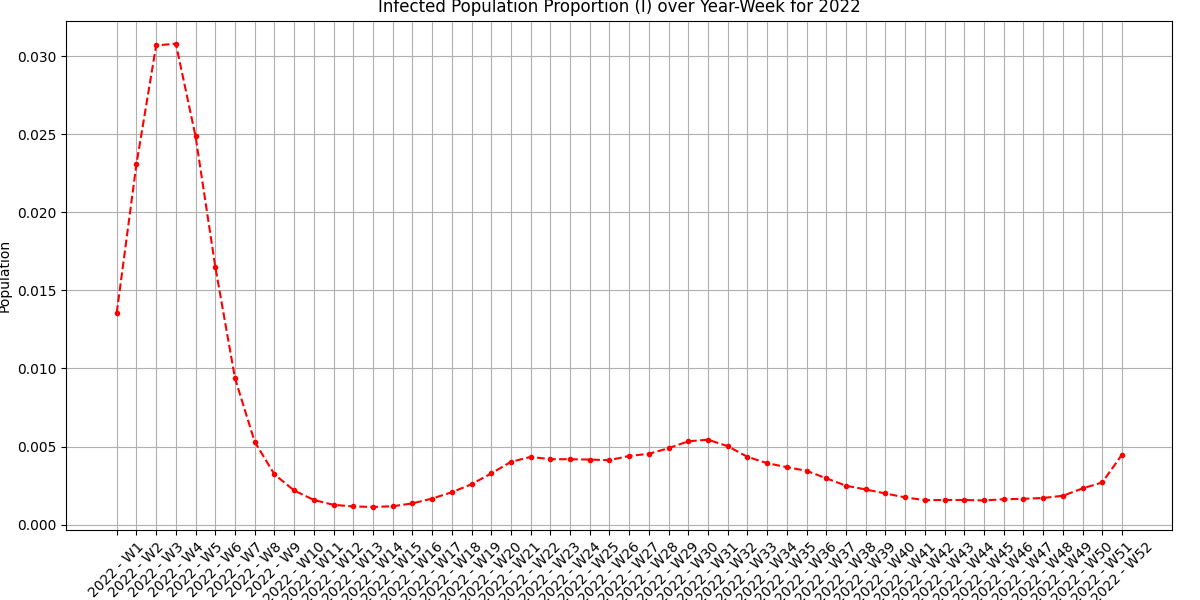
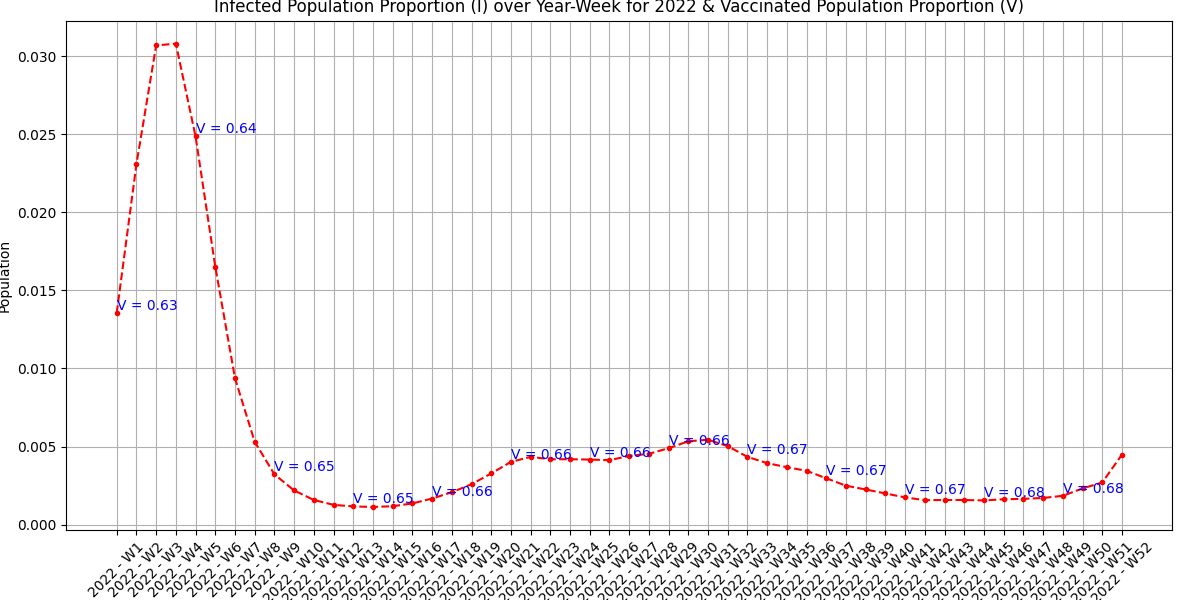
Vaccination plot in SIS

diff --git a/code/si_model.py b/code/si_model.py
@@ -39,7 +39,7 @@ def SI_plot(col, SI_data, save_path):
     unique_years = SI_data['year'].unique()
     for year in unique_years:
         data_year = SI_data[SI_data['year'] == year]
-        weekly_avg_data = data_year.groupby(['year', 'week']).agg({col: 'mean'}).reset_index()
+        weekly_avg_data = data_year.groupby(['year', 'week']).agg({col: 'mean', 'V':'mean', 'mobility_index':'mean'}).reset_index()
         weekly_avg_data['year_week'] = weekly_avg_data['year'].astype(str) + ' - W' + weekly_avg_data['week'].astype(str)
         plt.figure(figsize=(12, 6))
         plt.xlabel('Year-Week')
@@ -53,15 +53,21 @@ def SI_plot(col, SI_data, save_path):
             path = save_path + f'S_plot_{year}.png'
         elif col == 'I':
             plt.plot(weekly_avg_data['year_week'], weekly_avg_data[col], label='Susceptible (I)', color='r', marker='.', linestyle='--')
-            plt.title(f'Infected Population Proportion (I) over Year-Week for {year}')
+            plt.title(f'Infected Population Proportion (I) over Year-Week for {year} & Vaccinated Population Proportion (V)')
+            for i, (y, v) in enumerate(zip(weekly_avg_data[col], weekly_avg_data['V'])):
+                if i % 4 == 0:
+                    plt.text(i, y, f'V = {v:.2f}', ha='left', va='bottom', fontsize=10, color='blue')
             path = save_path + f'I_plot_{year}.png'
         plt.savefig(path)
         plt.show()
 
 if __name__ == "__main__":
+    plot = False
     data = compile_data()
     params = model_params()
     SI_data = extract_SI_data(data, params)
     save_path = '../plots/SI_model/'
-    for col in ['S', 'I']:
-        SI_plot(col, SI_data, save_path)
+    if plot:
+        for col in ['S', 'I']:
+            SI_plot(col, SI_data, save_path)
+    print(SI_data[['N','S','I','V','I_daily','D_daily','R_0','mobility_index']].describe())

diff --git a/code/source.py b/code/source.py
@@ -22,7 +22,7 @@ def remove_columns(data):
     # date,total_cases,new_cases,total_deaths,new_deaths,reproduction_rate,icu_patients,hosp_patients,weekly_icu_admissions,weekly_hosp_admissions,
     # total_tests,new_tests,positive_rate,tests_per_case,tests_units,total_vaccinations,people_vaccinated,people_fully_vaccinated,total_boosters,
     # new_vaccinations,stringency_index,population_density,median_age,gdp_per_capita,extreme_poverty,cardiovasc_death_rate,diabetes_prevalence,
-    # female_smokers,male_smokers,handwashing_facilities,life_expectancy,human_development_index,population,excess_mortality_cumulative,excess_mortality,
+    # female_smokers,male_smokers,handwashing_facilities,life_expectancy,human_development_index,population,excess_mortality_cumulative,excess_mortality
     # ---------------------------------------------------------------------------------------------------------------------------------------------------
     data = data.drop(columns_to_drop, axis=1)
     return data
